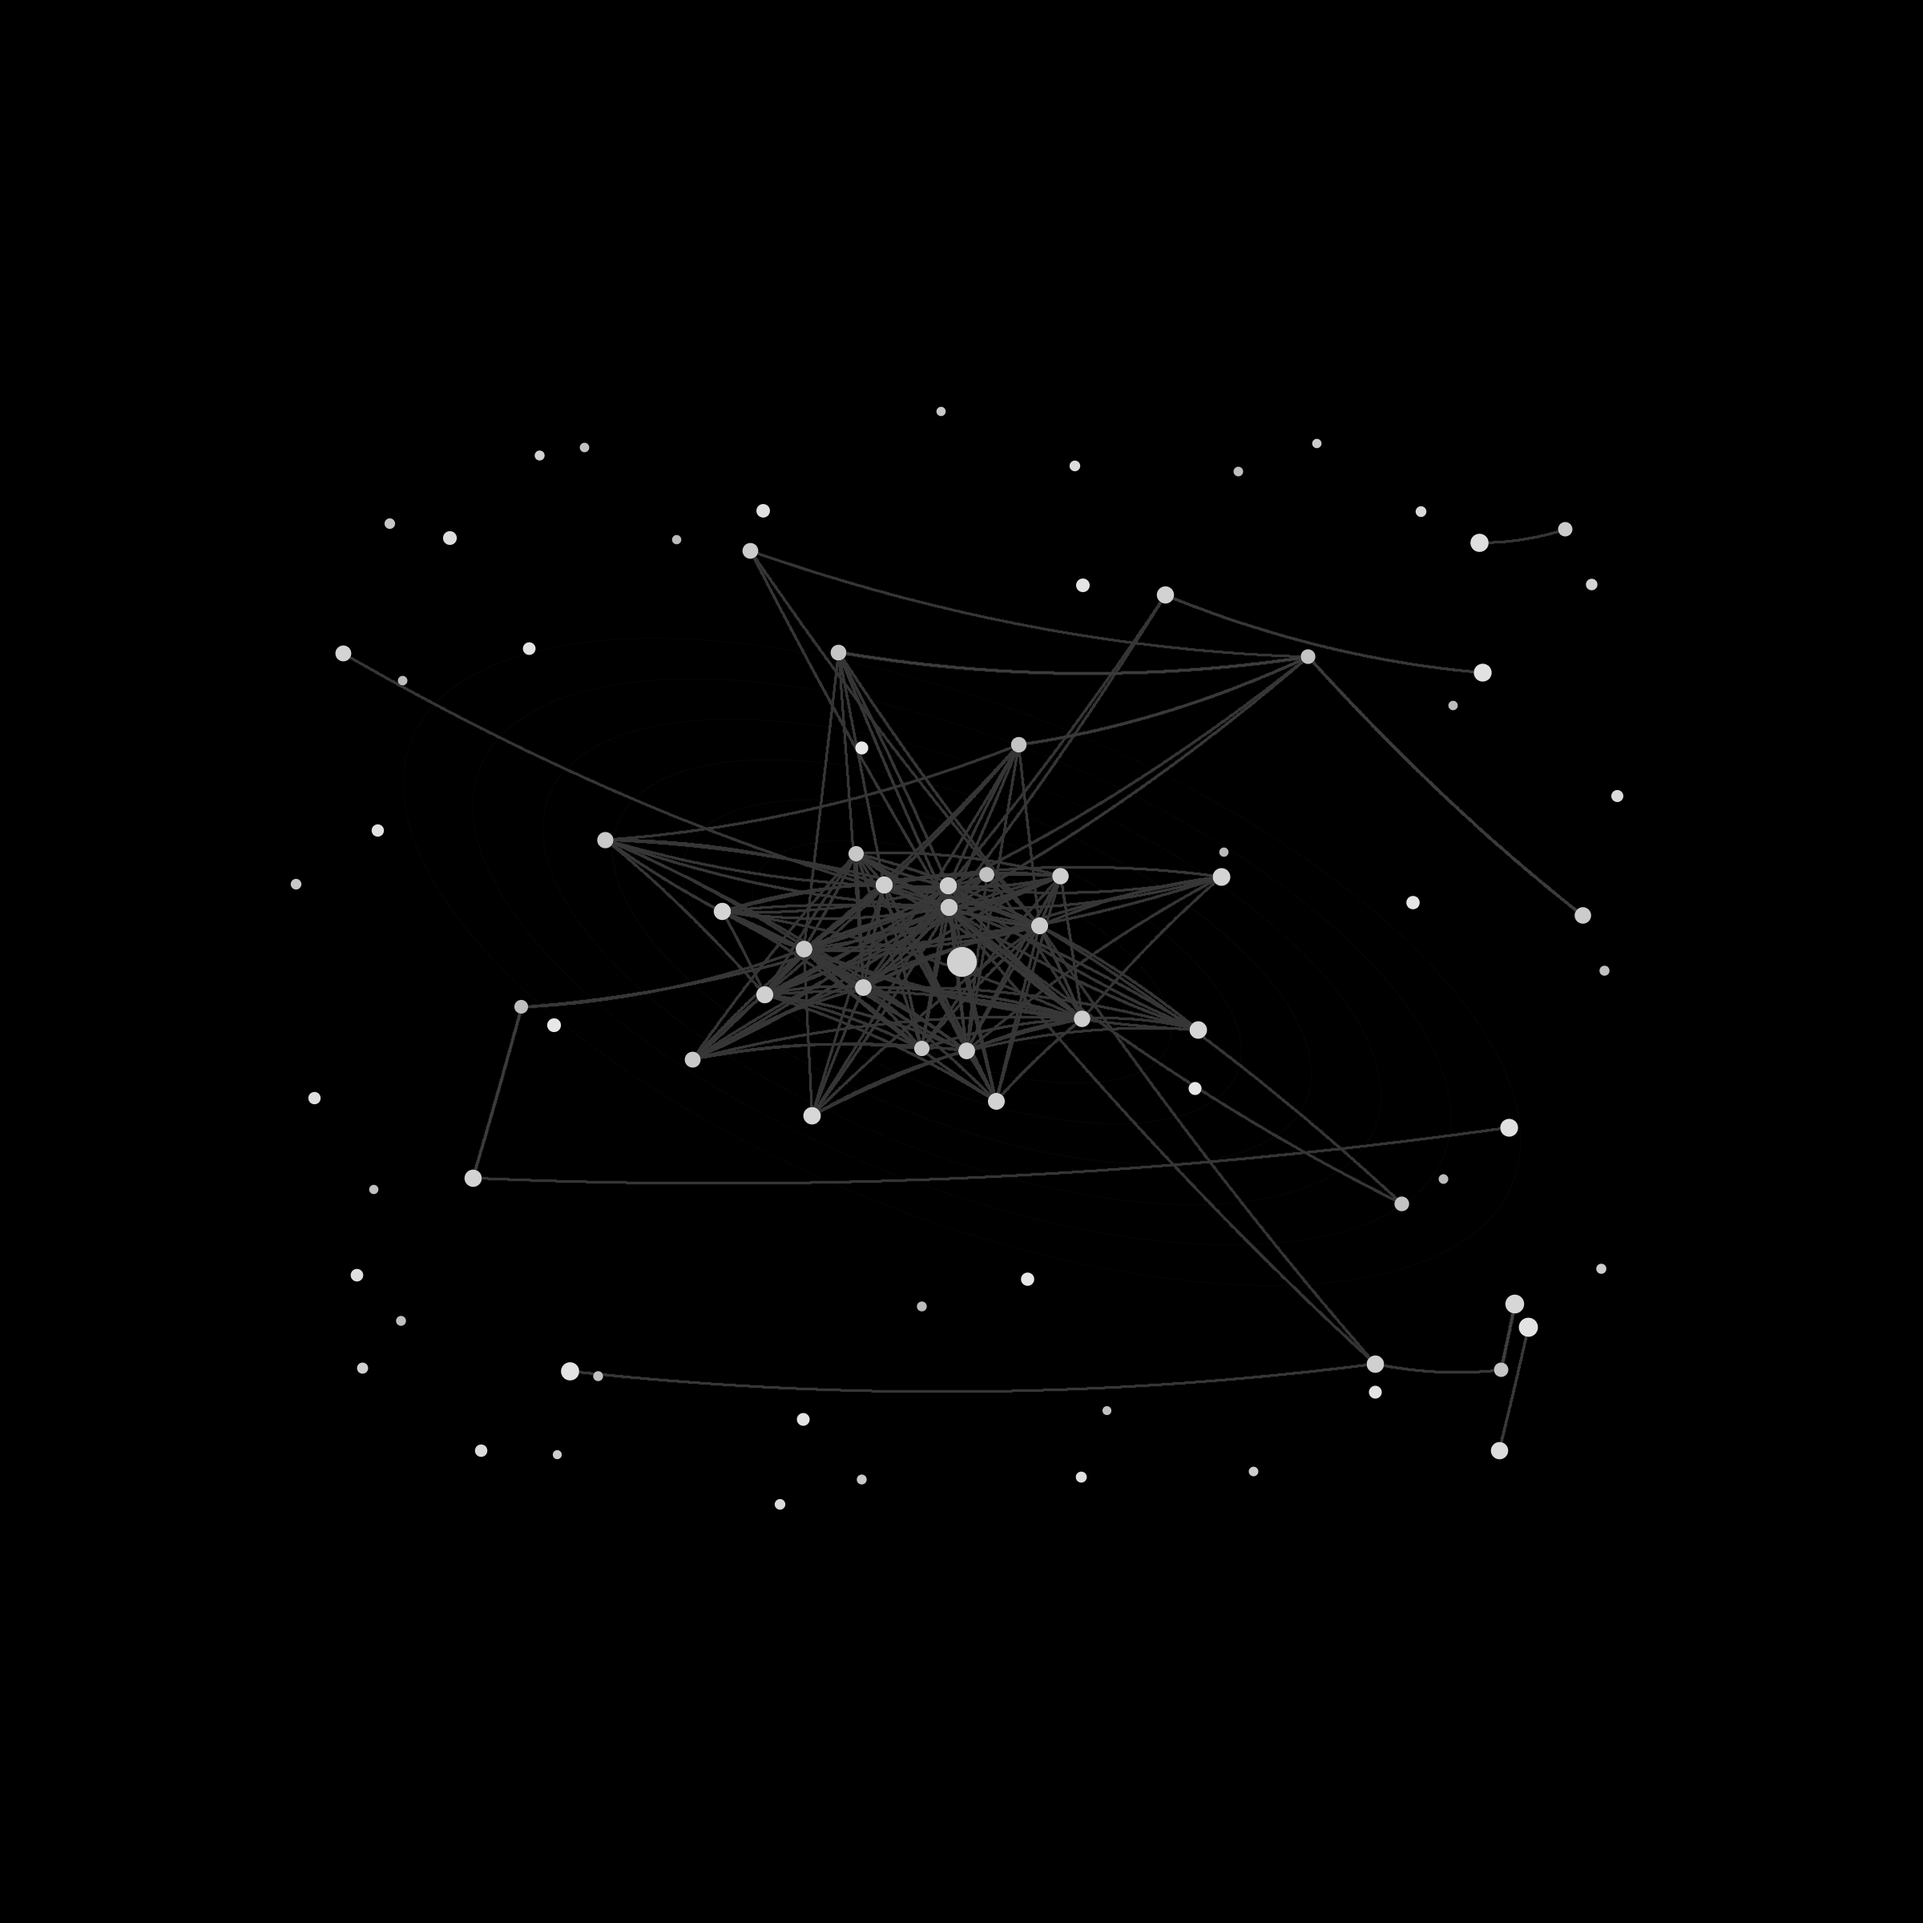
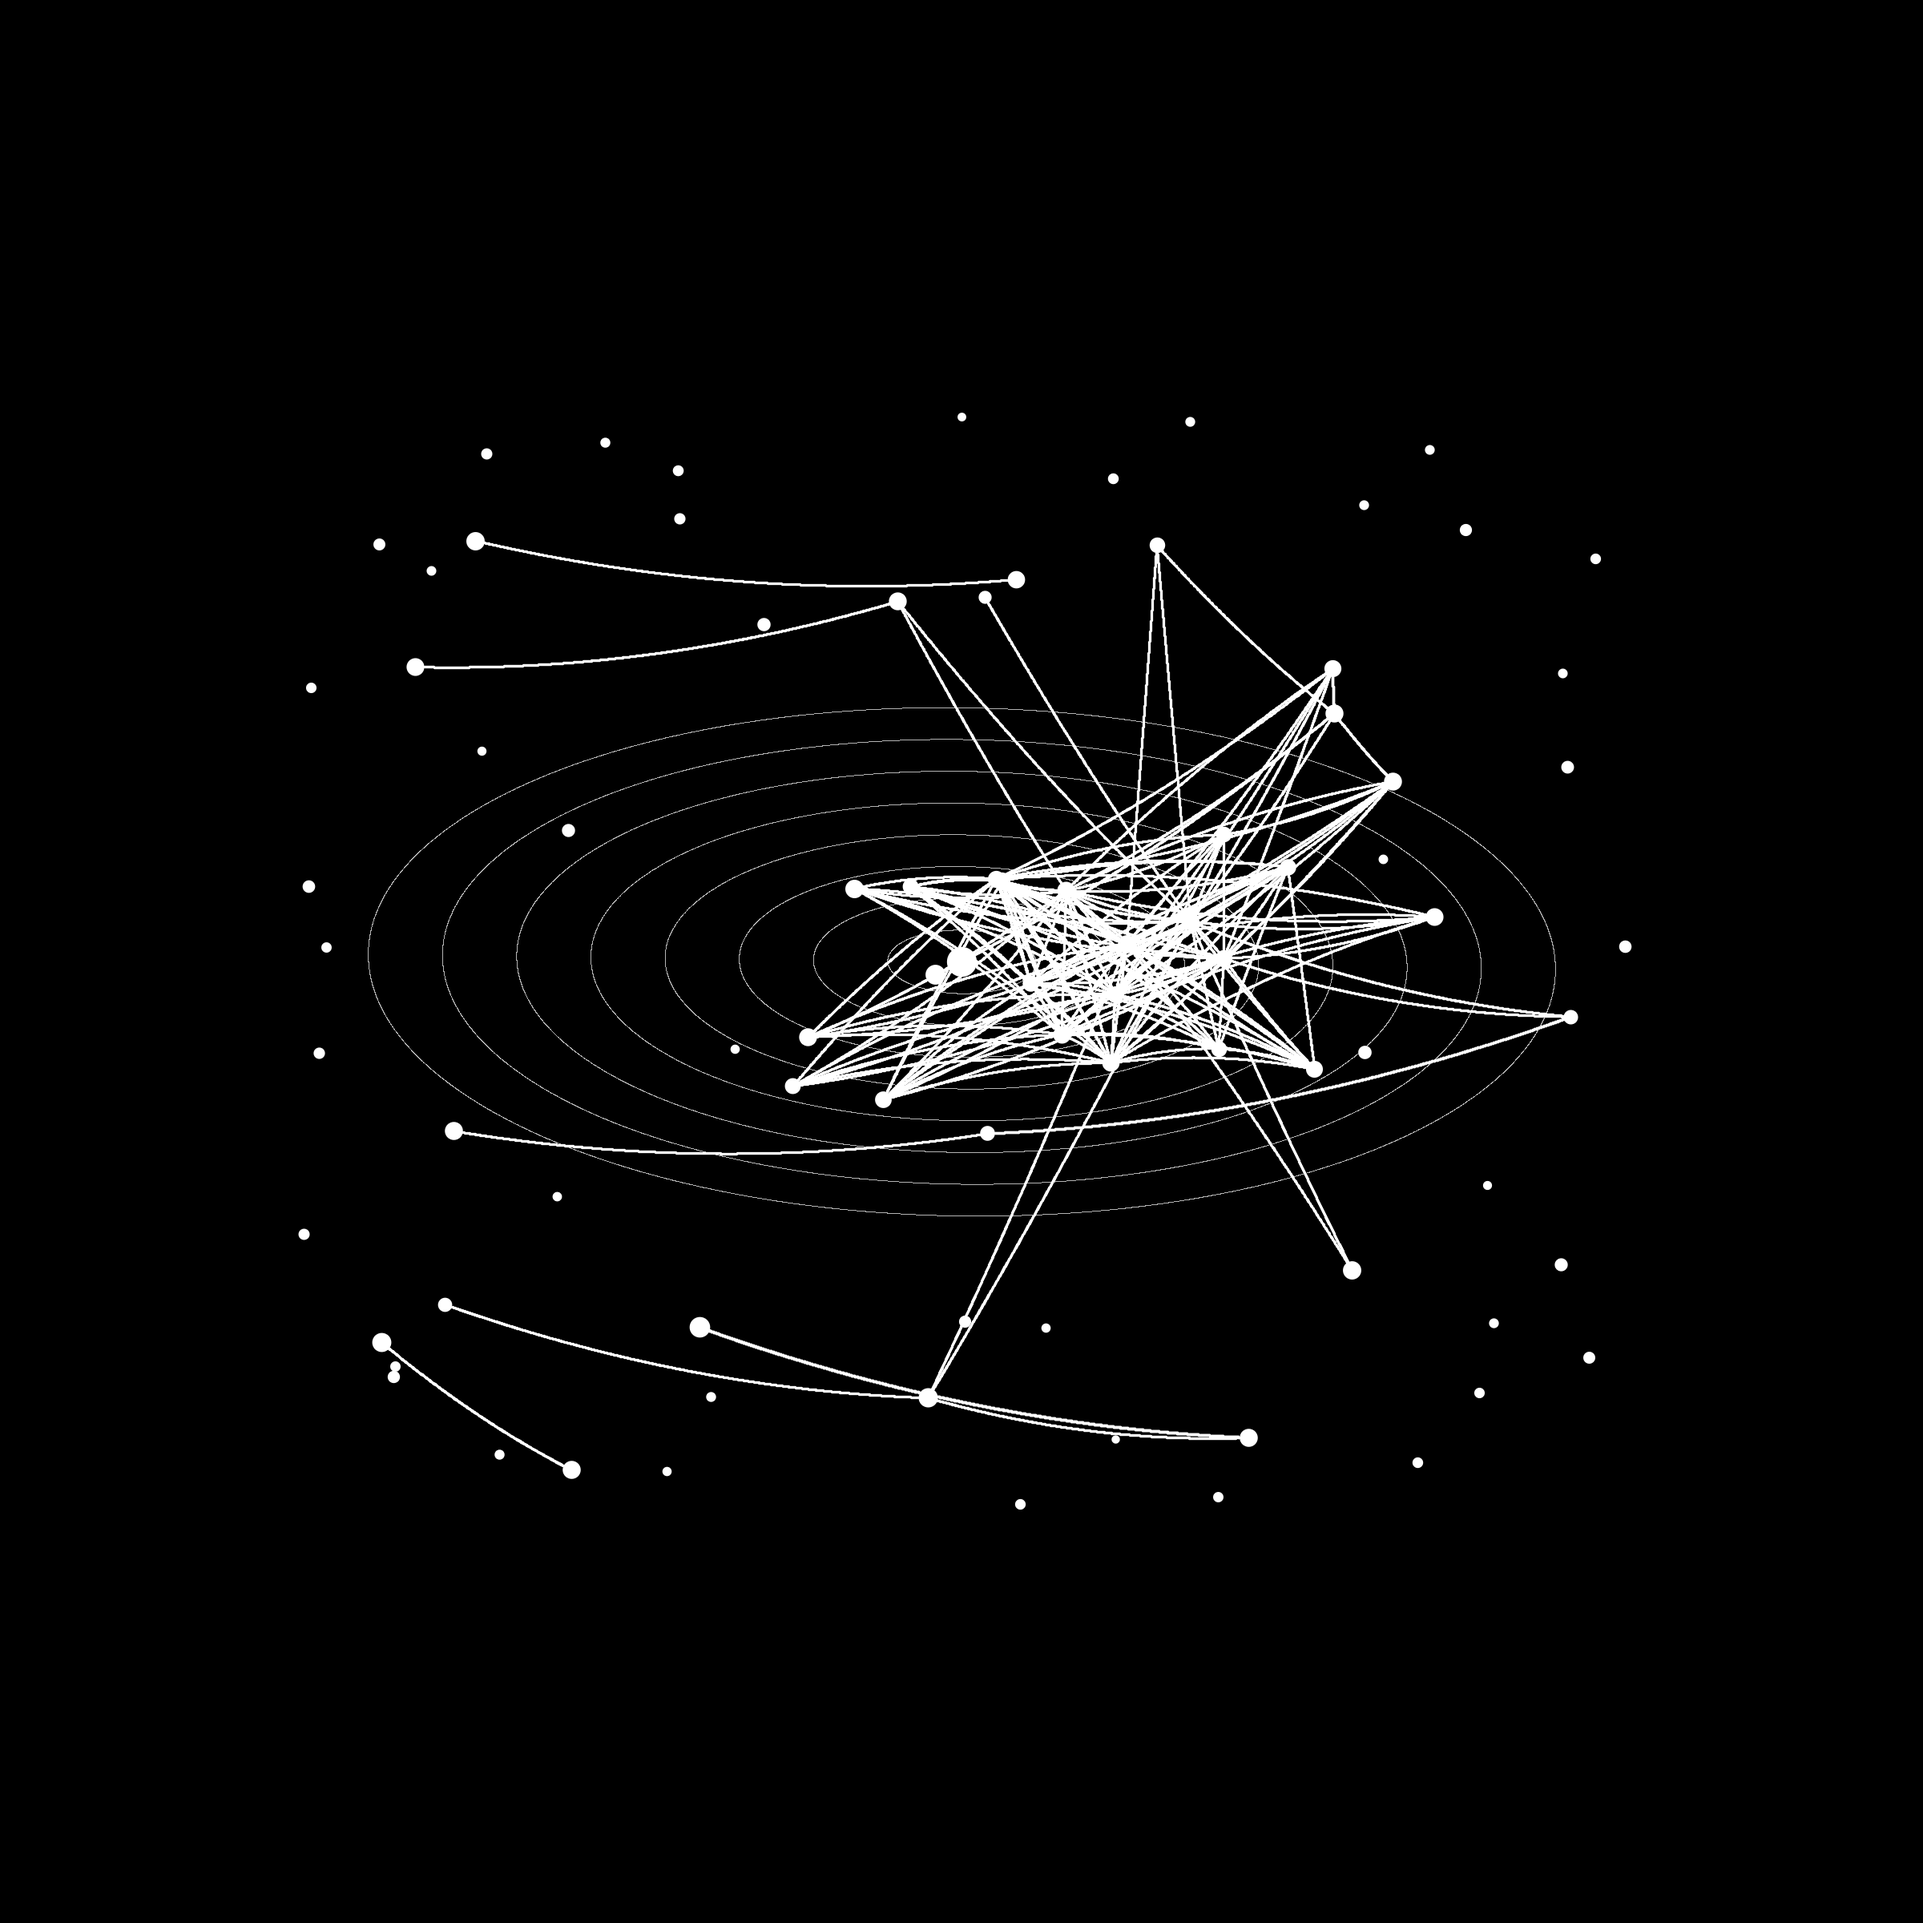
Render Library portraits in solid white

diff --git a/README.md b/README.md
@@ -73,8 +73,8 @@ of carrying them without doctrinal repetition.
   cross-book relations remain drawn, and each book simultaneously expresses
   gravitational coherence and measured outward pressure.
 - `assets/library-first-frames/` holds one canonical 2400×2400 PNG portrait for
-  every coherent Library selection. Each is the work's naked weighted topology
-  at its initial orientation; the adjacent manifest binds the image to its
+  every coherent Library selection. Each is the work's naked, solid-white
+  weighted topology on pure black at its initial orientation; the adjacent manifest binds the image to its
   Library order, current edition, renderer, dimensions, and SHA-256.
 - `scripts/works.mjs` ingests a Markdown file or directory in natural order,
   preserves file and heading coordinates, derives concepts and relations,

diff --git a/works/README.md b/works/README.md
@@ -34,8 +34,8 @@ Each ingestion writes:
 - `assets/library-first-frames/NN-work-id.png`: a canonical 2400×2400
   first-frame portrait of the current topology.
 
-The portrait contains the work alone: black field, weighted relations, and
-white nodes at the Living Library model's initial orientation. It carries no
+The portrait contains the work alone: black field with solid-white weighted
+relations and nodes at the Living Library model's initial orientation. It carries no
 interface, title, or source prose. `assets/library-first-frames/manifest.json`
 witnesses its Library order, work and edition identity, dimensions, renderer,
 path, and SHA-256. Filenames remain stable while a later edition replaces the
